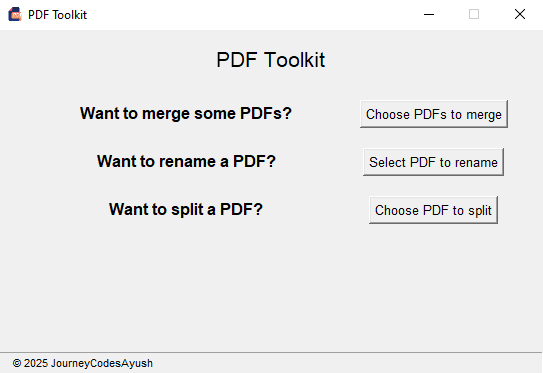
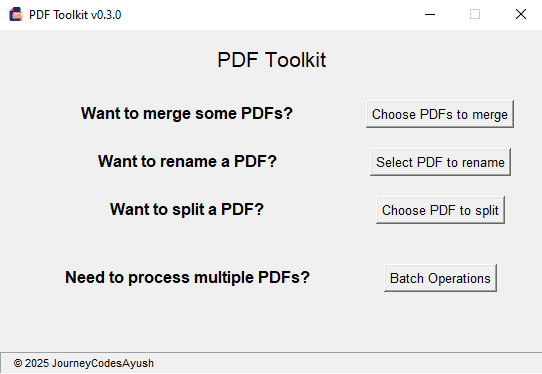
docs: update README, CHANGELOG and version.py for v0.3.0

diff --git a/version.py b/version.py
@@ -1,3 +1,3 @@
 # Tracks the version of the project
 
-__version__ = "0.2.1"
+__version__ = "0.3.0"

diff --git a/README.md b/README.md
@@ -16,18 +16,17 @@ Welcome to **PDF Toolkit** – a clean and simple desktop app built to help you 
 
 ## 📦 Latest Version
 
-**Version:** [v0.2.1](https://github.com/JourneyCodesAyush/PDF-Toolkit/releases/tag/v0.2.1)  
-**Release Date:** June 18, 2025  
+**Version:** [v0.3.0](https://github.com/JourneyCodesAyush/PDF-Toolkit/releases/tag/v0.3.0)  
+**Release Date:** June 27, 2025  
 **Status:** Pre-release  
-**Download:** [PDF-Toolkit.v0.2.1.zip](https://github.com/JourneyCodesAyush/PDF-Toolkit/releases/download/v0.2.1/PDF-Toolkit.v0.2.1.zip)
+**Download:** [PDF-Toolkit.v0.3.0.zip](https://github.com/JourneyCodesAyush/PDF-Toolkit/releases/download/v0.3.0/PDF-Toolkit.v0.3.0.zip)
 
-This is a **pre-release** of PDF Toolkit v0.2.1. It includes the following key improvements:
+This is a **pre-release** of PDF Toolkit v0.3.0. It includes the following key improvements:
 
-- 📄 **Separate logging** for user-visible messages and developer-facing errors  
-- 🛠 **Improved error handling** and clearer feedback in GUI operations  
-- 🪛 Minor internal refactoring for better structure and maintainability  
-
-🔍 Features include PDF **merging**, **splitting**, and **renaming**, with a basic Tkinter-based GUI.
+- 🔍 **Improved Logging** with standardized log format, specifically for file paths (using forward slashes `/`).
+- 🛠 **Enhanced User Experience**:
+  - Minor UI tweaks to improve accessibility.
+  - Improved error reporting for file path issues.
 
 🧪 This version is for testing purposes. Feedback and contributions are welcome!
 
@@ -38,6 +37,7 @@ This is a **pre-release** of PDF Toolkit v0.2.1. It includes the following key i
 - 🔗 **Merge PDFs** – Combine multiple PDF files into one.
 - ✏ **Rename PDFs** – Give your PDF files cleaner, more meaningful names.
 - ✂ **Split PDFs** – Break up large PDFs into smaller files or extract specific pages.
+- 🏷 **Batch Processing** – Perform batch operations like merge PDFs of entire folder (and/or move to other location) into one, rename PDFs of entire folder at once, or split a PDF into multiple single-paged PDFs at once. 
 - 🎯 **User-friendly interface** – No learning curve, just click and go.
 - ⚡ **Lightweight & fast** – Minimal dependencies and blazing performance.
 - 💻 **Cross-platform** – Built with Python & Tkinter; runs on Windows and (with small tweaks) on macOS/Linux too.
@@ -141,6 +141,7 @@ The app is equipped with built-in logging for user actions and robust error hand
 ## 🧪 Screenshots
 
 ![App Screenshot](assets/screenshot.png)
+![App Screenshot](assets/screenshot2.png)
 
 ---
 

diff --git a/CHANGELOG.md b/CHANGELOG.md
@@ -6,6 +6,17 @@ This changelog follows [Keep a Changelog](https://keepachangelog.com/en/1.0.0/) 
 
 ---
 
+## [v0.3.0] – 2025-06-26
+
+### ✨ Added
+- Batch processing support for PDFs:
+  - Batch merge, rename, and split operations implemented in `core/batch/` and `gui/batch/`
+  - New GUI dialogs for selecting folders or multiple PDFs for batch actions
+  - Comprehensive logging of batch operations in `user_activity.log`
+- Enhanced error handling and user messaging consistency across batch features
+
+---
+
 ## [v0.2.1] – 2025-06-18
 
 ### ✨ Added
